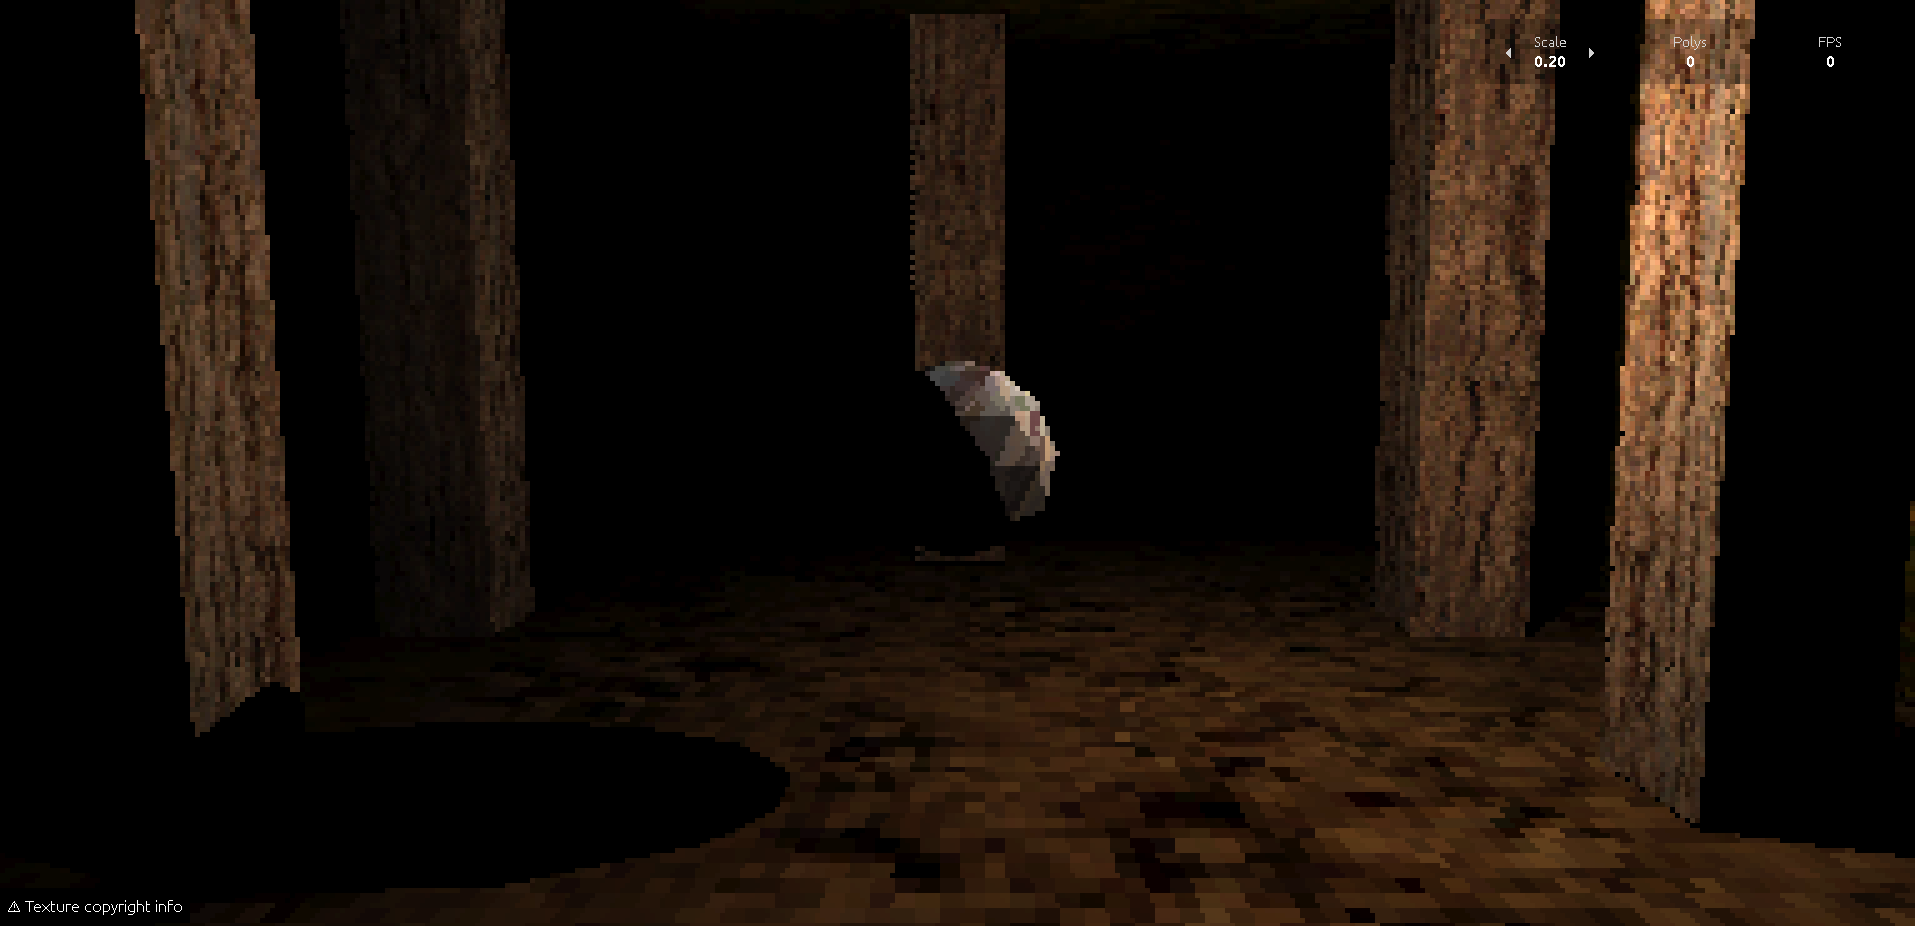
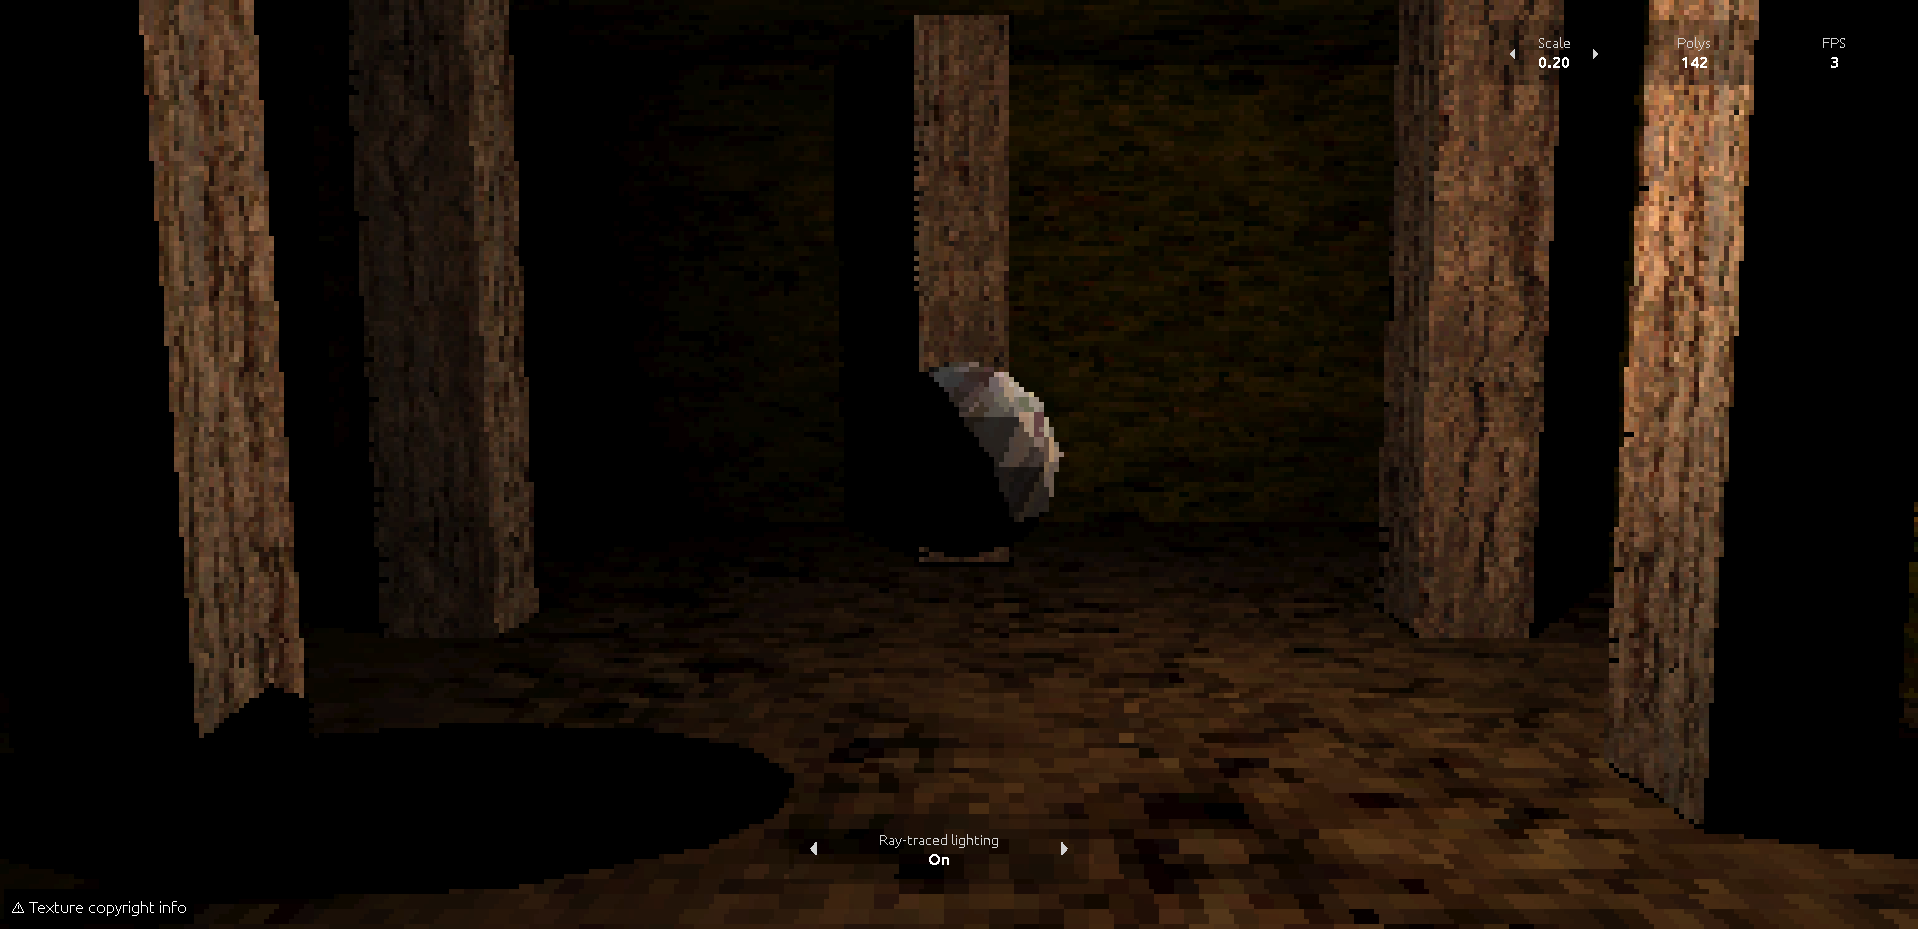
Update README.md
Rearrange the screenshots section.

diff --git a/README.md b/README.md
@@ -36,20 +36,20 @@ The retro n-gon renderer encourages low resolutions, very low polycounts, and de
 ![A scene from Tomb Raider, textured](./images/screenshots/alpha/tr-rngon-1.png)\
 **A scene** from Tomb Raider 1 as rendered by the retro n-gon renderer and consisting of textured quads and triangles. (Based on assets produced by Core Design for *Tomb Raider*. Core Design is not associated with the retro n-gon renderer.)
 
-![A scene from Quake, high-res](./images/screenshots/beta/quake-1.png)\
-**Level E1M1** from Quake 1 rendered with a per-pixel lighting shader. (Based on textures and 3D models produced by id Software for *Quake*; id Software is not associated with the retro n-gon renderer.)
-
-![A scene from RallySportED-js](./images/screenshots/alpha/rsed-rngon-1.png)\
-**The track** editor view in RallySportED-js, with geometry built from texture-mapped, wireframed quads. (Based on textures and 3D models produced by Jukka Jäkälä for *Rally-Sport*. Jukka Jäkälä is not associated with the retro n-gon renderer.)
-
 ![A view from Grand Prix Legends](./images/screenshots/beta/grand-prix-legends-rouen.png)\
 **A view** of the race track at Rouen in Grand Prix Legends. (Based on textures and 3D models produced by Papyrus Design Group for *Grand Prix Legends*. Papyrus Design Group is not associated with the retro n-gon renderer.)
+
+![A scene from RallySportED-js](./images/screenshots/beta/rallysported.png)\
+**The track editor view** in RallySportED-js, with geometry built from texture-mapped, wireframed quads. (Based on textures and 3D models produced by Jukka Jäkälä for *Rally-Sport*. Jukka Jäkälä is not associated with the retro n-gon renderer.)
 
 ![A scene from Tomb Raider, vertex-lit](./images/screenshots/beta/tomb-raider-1-vertex-shade.png)\
 **Vertex lighting** with Gouraud interpolation in a scene from Tomb Raider 1. (Based on assets produced by Core Design for *Tomb Raider*. Core Design is not associated with the retro n-gon renderer.)
 
-![Depth-based blurring with a pixel shader](./images/screenshots/beta/shader-distance-blur.png)
-**Depth-based** blurring applied with a pixel shader. (See [here](./samples/pixel-shaders/assets/copying.txt) for texture copyright information.)
+![Ray-traced lighting with a pixel shader](./images/screenshots/beta/shader-ray-trace.png)
+**Ray-traced lighting** applied with a pixel shader. (See [here](./samples/raytraced-lighting/assets/copying.txt) for texture copyright information.)
+
+![Depth blur with a pixel shader](./images/screenshots/beta/shader-distance-blur.png)
+**Depth blur** applied with a pixel shader. (See [here](./samples/pixel-shaders/assets/copying.txt) for texture copyright information.)
 
 # User's manual
 In this section, you'll find both theoretical and practical guidance on using the retro n-gon renderer; including a reference manual for the renderer's API.
